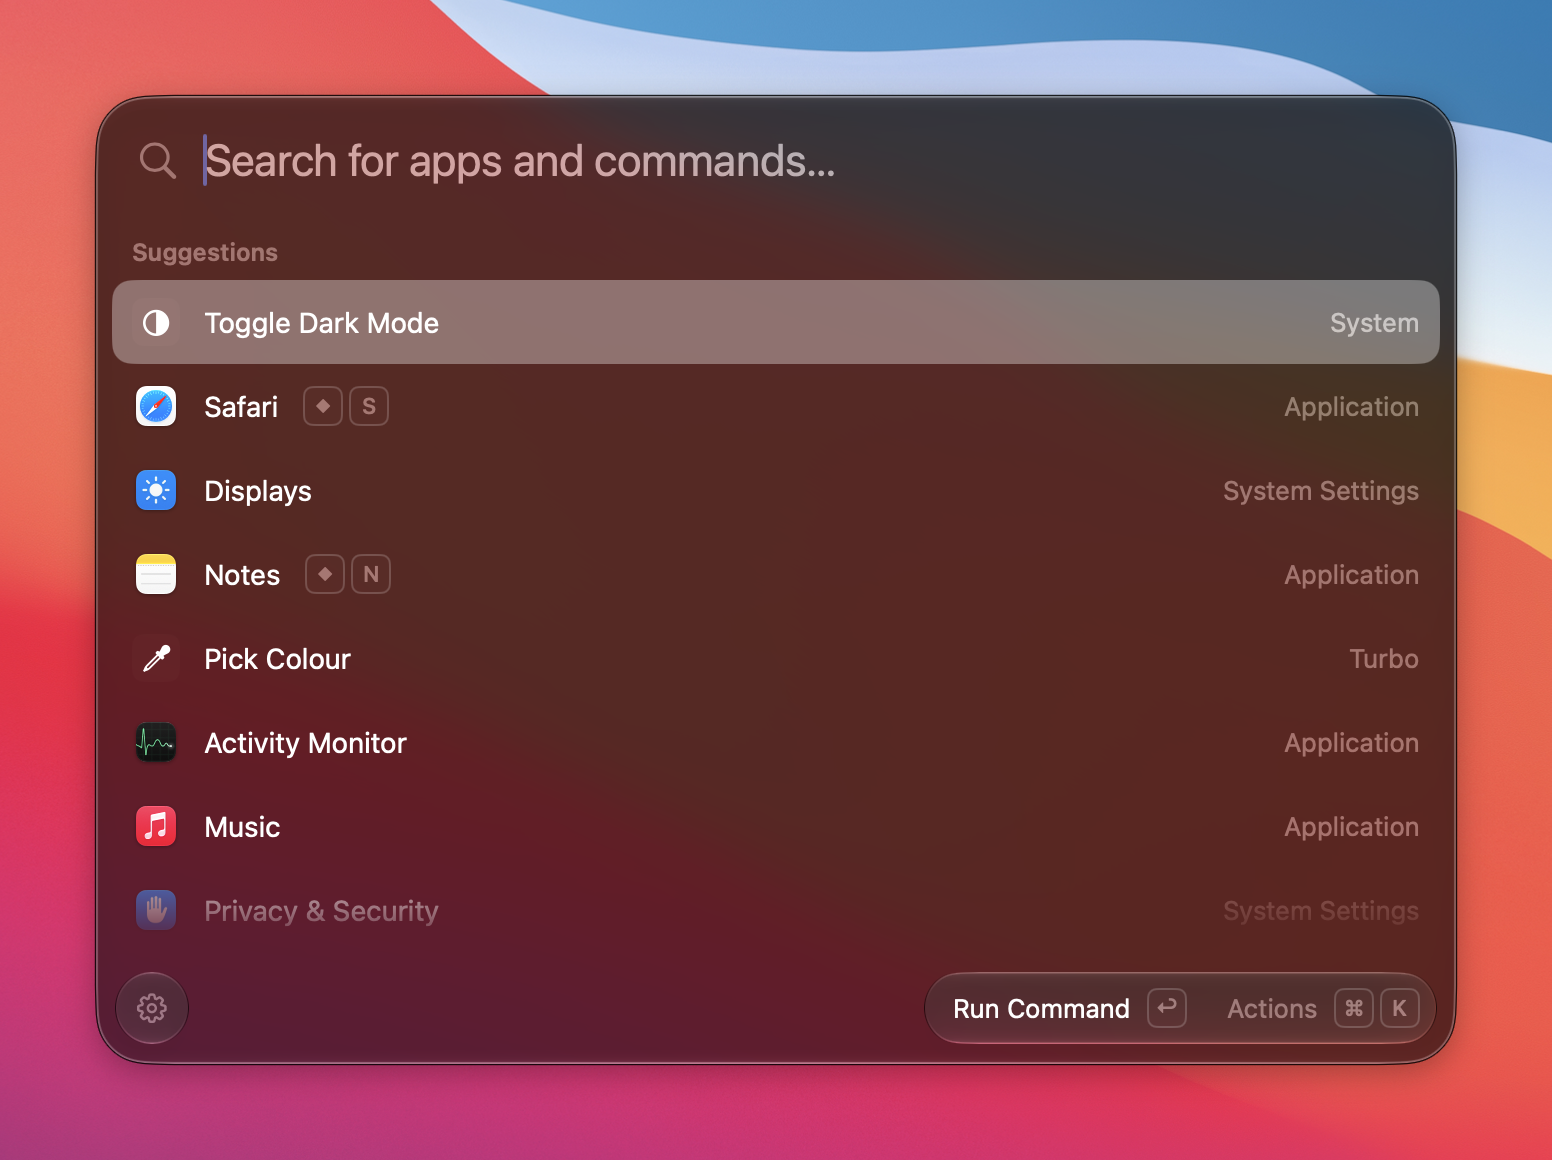
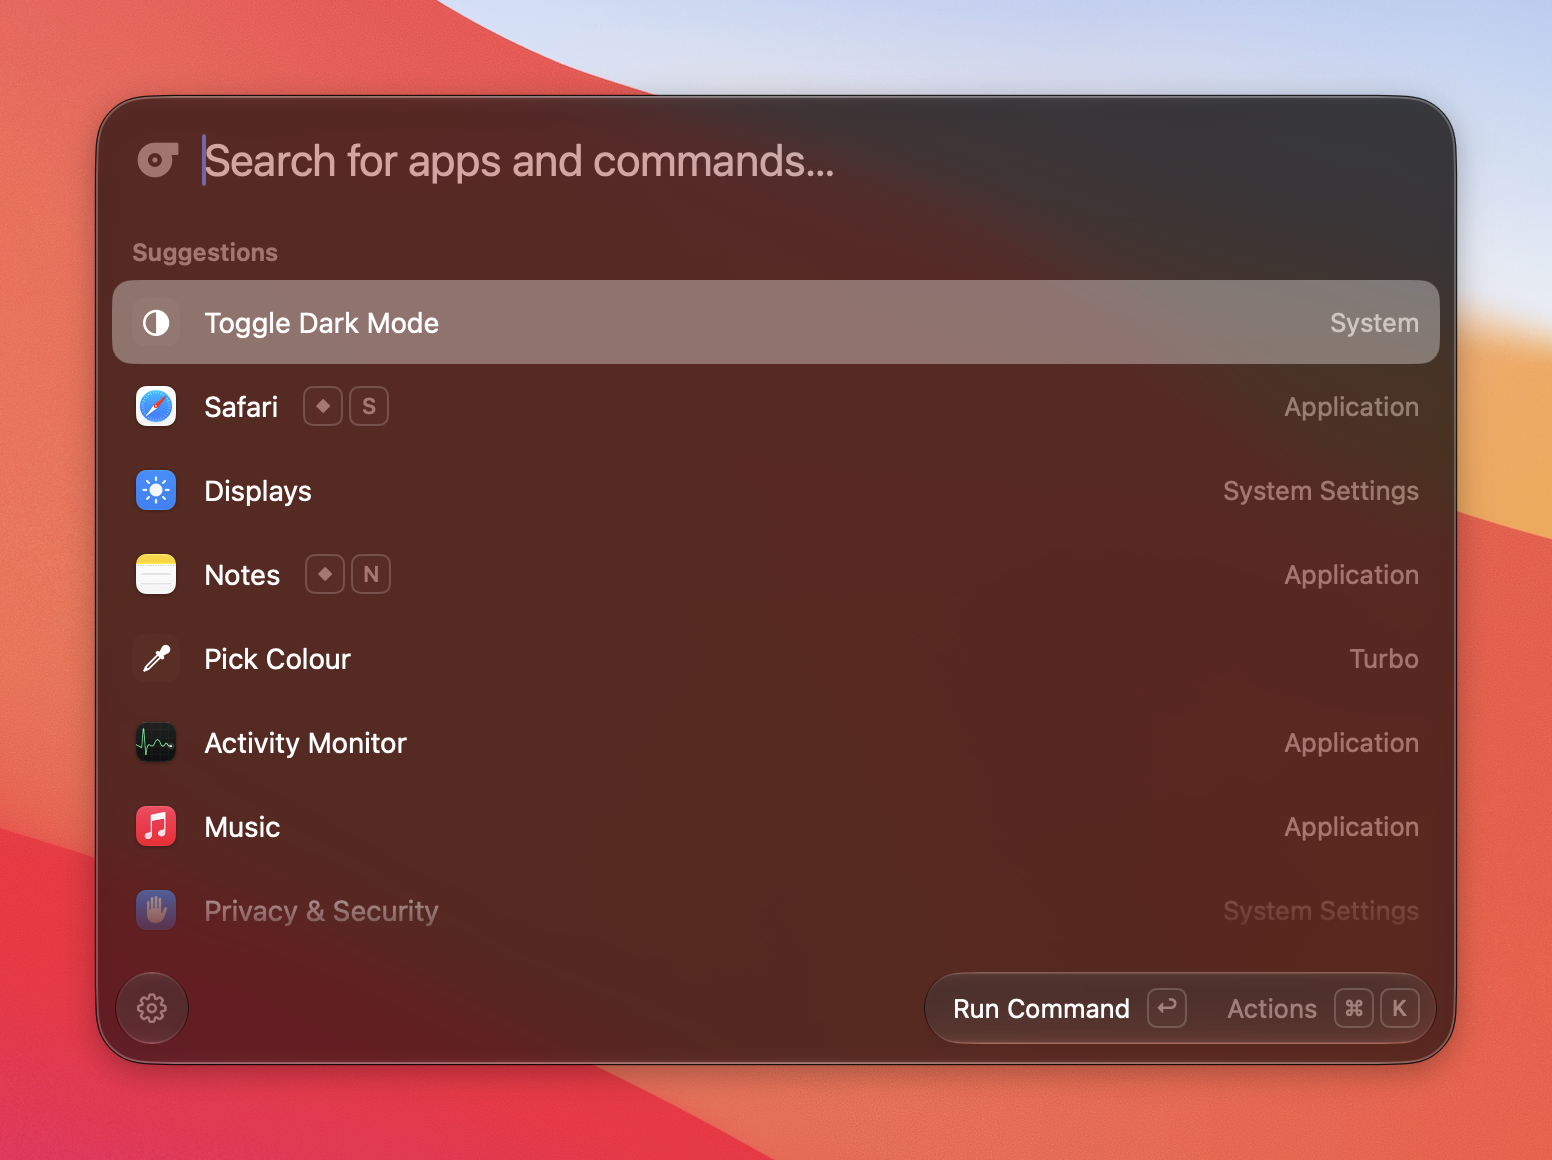
docs: add the menu bar popover to the README screenshots
`just screenshots` now also captures menubar.png: the open menu bar popover over the
desktop, with only Turbo's icon in the menu bar. It's composed with ScreenCaptureKit from
the wallpaper and Turbo's windows, plus Turbo's highlighted icon cut from an ordinary
capture. The README shows it beside the launcher.

The demo config turns on reverse scrolling, and screenshot mode shows every display at full
brightness (without changing it) and hides the Accessibility prompt row in the popover.

diff --git a/shell/Sources/Turbo/ScreenshotMode.swift b/shell/Sources/Turbo/ScreenshotMode.swift
@@ -1,8 +1,11 @@
 import AppKit
 import os
+import ScreenCaptureKit
+import UniformTypeIdentifiers
 
 /// `just screenshots`: launched with `TURBO_SCREENSHOTS=<dir>`, the app hides every other app,
-/// captures the launcher palette over the desktop to `<dir>/palette.png`, then opens Settings and
+/// captures the launcher palette over the desktop to `<dir>/palette.png` and the open menu bar
+/// popover under Turbo's icon (alone in the menu bar) to `<dir>/menubar.png`, then opens Settings and
 /// saves each pane's window to `<dir>/<pane>.png` with `screencapture` (frame and shadow
 /// included), unhides the apps it hid and quits. Capturing needs Screen Recording access.
 @MainActor
@@ -31,14 +34,10 @@ enum ScreenshotMode {
         palette.show()
         try? await Task.sleep(for: .seconds(1))
         let region = palette.panelFrame.insetBy(dx: -palettePadding, dy: -palettePadding)
-        // screencapture -R takes points from the top-left of the main display; AppKit's origin is
-        // its bottom-left.
-        let mainHeight = NSScreen.screens.first?.frame.maxY ?? 0
-        let rect = [region.minX, mainHeight - region.maxY, region.width, region.height]
-            .map { String(Int($0.rounded())) }
-            .joined(separator: ",")
-        screencapture(["-R", rect], name: "palette", in: directory)
+        screencapture(region: region, name: "palette", in: directory)
         palette.hide()
+
+        await captureMenuBar(in: directory)
 
         // General is left out: the palette shot replaces it at the top of the README.
         for pane in SettingsPane.allCases where pane != .general {
@@ -51,6 +50,172 @@ enum ScreenshotMode {
         // Before quitting: terminate doesn't return.
         hidden.forEach { $0.unhide() }
         NSApp.terminate(nil)
+    }
+
+    /// Opens the menu bar popover and saves `menubar.png` (see `composeMenuBar`).
+    private static func captureMenuBar(in directory: URL) async {
+        // The status item can take a moment to reach the menu bar after launch.
+        var button = statusItemButton()
+        for _ in 0..<30 where button == nil {
+            try? await Task.sleep(for: .milliseconds(100))
+            button = statusItemButton()
+        }
+        guard let button else {
+            let windows = NSApp.windows.filter { $0.className.contains("StatusBarWindow") }
+                .map { NSStringFromRect($0.frame) }.joined(separator: ", ")
+            Logger.app.error("screenshots: couldn't find the menu bar icon (status windows: \(windows, privacy: .public))")
+            return
+        }
+        // SwiftUI's status item ignores performClick, so it gets a real click; another if it didn't
+        // take (the icon can still be settling into place).
+        var opened: (popover: NSWindow, icon: NSRect)?
+        for _ in 0..<3 where opened == nil {
+            guard let icon = button.window?.frame else { break }
+            click(at: icon)
+            for _ in 0..<10 {
+                try? await Task.sleep(for: .milliseconds(100))
+                if let popover = NSApp.windows.first(where: { $0.isVisible && $0.className.contains("MenuBarExtra") }) {
+                    opened = (popover, icon)
+                    break
+                }
+            }
+        }
+        guard let (popover, icon) = opened else {
+            let windows = NSApp.windows.filter(\.isVisible).map(\.className).joined(separator: ", ")
+            Logger.app.error("screenshots: the menu bar popover didn't open (visible windows: \(windows, privacy: .public))")
+            return
+        }
+        // Off to the side, so it doesn't highlight a control in the popover; then time for it to settle.
+        if let screen = NSScreen.screens.first {
+            CGWarpMouseCursorPosition(CGPoint(x: screen.frame.width * 0.1, y: screen.frame.height * 0.5))
+        }
+        try? await Task.sleep(for: .seconds(1))
+        do {
+            try await composeMenuBar(popover: popover.frame, icon: icon, to: directory.appending(path: "menubar.png"))
+            Logger.app.info("screenshots: saved menubar")
+        } catch {
+            Logger.app.error("screenshots: menubar failed: \(error, privacy: .public)")
+        }
+        popover.orderOut(nil)
+        try? await Task.sleep(for: .milliseconds(500))
+    }
+
+    /// Draws the menu bar shot with only Turbo's icon in the menu bar, whatever else is there: the
+    /// wallpaper and the popover, captured without the menu bar, then Turbo's icon (with its open
+    /// highlight) cut from an ordinary capture where it is. The popover sits in the middle.
+    private static func composeMenuBar(popover: NSRect, icon: NSRect, to file: URL) async throws {
+        guard let screen = NSScreen.screens.first,
+              let displayID = screen.deviceDescription[NSDeviceDescriptionKey("NSScreenNumber")] as? CGDirectDisplayID
+        else { throw ScreenshotError("no main display") }
+        let scale = screen.backingScaleFactor
+        let content = try await SCShareableContent.excludingDesktopWindows(false, onScreenWindowsOnly: true)
+        guard let display = content.displays.first(where: { $0.displayID == displayID }) else {
+            throw ScreenshotError("ScreenCaptureKit doesn't list the main display")
+        }
+        // The background keeps the wallpaper (WindowManager's), the shading macOS puts behind the
+        // menu bar ("underbelly") and Turbo's own windows, leaving out the menu bar and its icons.
+        let me = ProcessInfo.processInfo.processIdentifier
+        let onMain = { (window: SCWindow) in window.frame.minX == 0 && window.frame.minY == 0 }
+        let backgroundWindows = content.windows.filter {
+            ($0.owningApplication?.processID == me && $0.isOnScreen)
+                || (onMain($0) && ($0.title == "underbelly"
+                    || ($0.title == "Wallpaper" && $0.owningApplication?.bundleIdentifier == "com.apple.WindowManager")))
+        }
+
+        // In points from the main display's top left, which ScreenCaptureKit and the
+        // accessibility API use; x is the same as AppKit's.
+        let left = popover.minX - menuBarMargin
+        let right = popover.maxX + menuBarMargin
+        let height = screen.frame.maxY - popover.minY + menuBarMarginBottom
+        let region = CGRect(x: left, y: 0, width: right - left, height: height)
+
+        func capture(_ filter: SCContentFilter, _ source: CGRect) async throws -> CGImage {
+            let config = SCStreamConfiguration()
+            config.sourceRect = source
+            config.width = Int((source.width * scale).rounded())
+            config.height = Int((source.height * scale).rounded())
+            config.showsCursor = false
+            config.captureResolution = .best
+            return try await SCScreenshotManager.captureImage(contentFilter: filter, configuration: config)
+        }
+        let background = try await capture(SCContentFilter(display: display, including: backgroundWindows), region)
+        let everything = try await capture(SCContentFilter(display: display, excludingWindows: []), region)
+
+        let width = background.width, imageHeight = background.height
+        guard let context = CGContext(
+            data: nil, width: width, height: imageHeight, bitsPerComponent: 8, bytesPerRow: 0,
+            space: CGColorSpace(name: CGColorSpace.sRGB)!, bitmapInfo: CGImageAlphaInfo.premultipliedLast.rawValue
+        ) else { throw ScreenshotError("couldn't make a drawing context") }
+        // Top-left origin in points, like the rects above.
+        context.translateBy(x: 0, y: CGFloat(imageHeight))
+        context.scaleBy(x: scale, y: -scale)
+        /// Draws `rect` of `image` (in points from its top left) at `origin` in the region.
+        func draw(_ image: CGImage, _ rect: CGRect, at origin: CGPoint) {
+            let pixels = CGRect(x: rect.minX * scale, y: rect.minY * scale, width: rect.width * scale, height: rect.height * scale)
+            guard let piece = image.cropping(to: pixels.integral) else { return }
+            context.saveGState()
+            // CGContext draws images upright in its own (bottom-left) space; flip back for this one.
+            context.translateBy(x: origin.x, y: origin.y + rect.height)
+            context.scaleBy(x: 1, y: -1)
+            context.draw(piece, in: CGRect(origin: .zero, size: rect.size))
+            context.restoreGState()
+        }
+
+        draw(background, CGRect(origin: .zero, size: region.size), at: .zero)
+        let barHeight = screen.frame.maxY - screen.visibleFrame.maxY
+        // The open highlight is a capsule a little wider than the button; the margin either side is
+        // still within the button padding before a neighbouring icon, and matches the background.
+        let turbo = CGRect(x: icon.minX - left, y: 0, width: icon.width, height: barHeight).insetBy(dx: -6, dy: 0)
+        draw(everything, turbo, at: turbo.origin)
+
+        guard let image = context.makeImage(),
+              let destination = CGImageDestinationCreateWithURL(file as CFURL, UTType.png.identifier as CFString, 1, nil)
+        else { throw ScreenshotError("couldn't write \(file.lastPathComponent)") }
+        CGImageDestinationAddImage(destination, image, nil)
+        guard CGImageDestinationFinalize(destination) else { throw ScreenshotError("couldn't write \(file.lastPathComponent)") }
+    }
+
+    private struct ScreenshotError: Error, CustomStringConvertible {
+        let description: String
+        init(_ description: String) { self.description = description }
+    }
+
+    /// Clicks the middle of `frame`, in AppKit's coordinates (origin at the main display's bottom left).
+    private static func click(at frame: NSRect) {
+        // CGEvent takes points from the top-left of the main display.
+        let mainHeight = NSScreen.screens.first?.frame.maxY ?? 0
+        let point = CGPoint(x: frame.midX, y: mainHeight - frame.midY)
+        for type in [CGEventType.leftMouseDown, .leftMouseUp] {
+            CGEvent(mouseEventSource: nil, mouseType: type, mouseCursorPosition: point, mouseButton: .left)?
+                .post(tap: .cghidEventTap)
+        }
+    }
+
+    /// Desktop showing beside and below the menu bar popover, in points.
+    private static let menuBarMargin: CGFloat = 22
+    private static let menuBarMarginBottom: CGFloat = 27
+
+    /// The button of the status item SwiftUI's `MenuBarExtra` made in the main display's menu bar
+    /// (each display's menu bar has its own copy).
+    private static func statusItemButton() -> NSStatusBarButton? {
+        func find(in view: NSView) -> NSStatusBarButton? {
+            if let button = view as? NSStatusBarButton { return button }
+            return view.subviews.lazy.compactMap(find).first
+        }
+        let main = NSScreen.screens.first?.frame ?? .zero
+        return NSApp.windows
+            .filter { $0.className.contains("StatusBarWindow") && main.intersects($0.frame) }
+            .lazy.compactMap { $0.contentView.flatMap(find) }.first
+    }
+
+    /// Captures `region`, in AppKit's coordinates (origin at the main display's bottom left).
+    private static func screencapture(region: NSRect, name: String, in directory: URL) {
+        // screencapture -R takes points from the top-left of the main display.
+        let mainHeight = NSScreen.screens.first?.frame.maxY ?? 0
+        let rect = [region.minX, mainHeight - region.maxY, region.width, region.height]
+            .map { String(Int($0.rounded())) }
+            .joined(separator: ",")
+        screencapture(["-R", rect], name: name, in: directory)
     }
 
     /// Hides every visible regular app but this one, returning them to unhide afterwards.

diff --git a/shell/Sources/Turbo/DisplaySettings.swift b/shell/Sources/Turbo/DisplaySettings.swift
@@ -36,8 +36,8 @@ final class DisplaySettings {
     init(core: Core) {
         self.core = core
         config = core.monitorConfig()
-        displays = core.displays()
-        builtinBrightness = core.builtinBrightness()
+        displays = Self.posed(core.displays())
+        builtinBrightness = Self.posed(core.builtinBrightness())
     }
 
     /// Displays whose brightness can be controlled.
@@ -56,7 +56,7 @@ final class DisplaySettings {
     /// keys, auto-brightness, opening and closing the lid).
     func refreshBuiltin() {
         guard ContinuousClock.now - lastBuiltinWrite > .milliseconds(500) else { return }
-        builtinBrightness = core.builtinBrightness()
+        builtinBrightness = Self.posed(core.builtinBrightness())
     }
 
     func setBuiltinBrightness(_ brightness: Double) {
@@ -78,7 +78,7 @@ final class DisplaySettings {
         // menu's next poll, so the menu doesn't change height while it's open.
         refreshBuiltin()
         // Keep the slider's value for a display mid-drag rather than the core's older one.
-        self.displays = displays.map { display in
+        self.displays = Self.posed(displays).map { display in
             guard writing.contains(display.id), let current = self.displays.first(where: { $0.id == display.id }) else {
                 return display
             }
@@ -99,8 +99,25 @@ final class DisplaySettings {
 
     // MARK: Private
 
+    /// `just screenshots` shows every display at full brightness, whatever it's really at (and
+    /// without changing it).
+    private static let posing = ScreenshotMode.directory != nil
+
+    private static func posed(_ brightness: Double?) -> Double? {
+        posing ? brightness.map { _ in 1 } : brightness
+    }
+
+    private static func posed(_ displays: [DisplayInfo]) -> [DisplayInfo] {
+        guard posing else { return displays }
+        return displays.map { display in
+            var display = display
+            display.brightness = 1
+            return display
+        }
+    }
+
     private func updateLocal(_ displayID: UInt32, _ brightness: Double) {
-        guard let index = displays.firstIndex(where: { $0.id == displayID }) else { return }
+        guard !Self.posing, let index = displays.firstIndex(where: { $0.id == displayID }) else { return }
         displays[index].brightness = brightness
     }
 

diff --git a/shell/Sources/Turbo/StatusMenu.swift b/shell/Sources/Turbo/StatusMenu.swift
@@ -23,7 +23,8 @@ struct StatusMenu: View {
             Divider()
             keyboard
 
-            if !model.accessibility.isGranted {
+            // Screenshots show the menu as it is once set up.
+            if !model.accessibility.isGranted, ScreenshotMode.directory == nil {
                 MenuRow(title: "Grant Accessibility…", systemImage: "hand.raised") {
                     dismiss()
                     onShowOnboarding()

diff --git a/README.md b/README.md
@@ -16,7 +16,7 @@
 
 [**Download for Mac**](https://github.com/jamieweavis/turbo/releases/latest) · [Features](#launcher-features) · [Utilities](#utilities) · [Development](#development) · [Changelog](CHANGELOG.md)
 
-<img src=".github/screenshots/palette.png" alt="Turbo's launcher" width="776">
+<img src=".github/screenshots/palette.png" alt="Turbo's launcher" height="392"> <img src=".github/screenshots/menubar.png" alt="Turbo's menu bar popover" height="392">
 
 </div>
 
@@ -240,8 +240,9 @@ default, so macOS keeps the Accessibility grant across rebuilds. Set `TURBO_SIGN
 ad hoc.
 
 `just screenshots` relaunches the app with the demo config in `.github/screenshots/demo-config.toml`,
-hides your other apps, captures the launcher over the desktop and every settings pane in dark mode to
-`.github/screenshots/`, then unhides the apps and relaunches your usual copy.
+hides your other apps, captures the launcher over the desktop, the menu bar popover (under
+Turbo's icon alone) and every settings pane in dark mode to `.github/screenshots/`, then
+unhides the apps and relaunches your usual copy.
 It needs Screen Recording access the first time, and compresses the images if `oxipng` is installed.
 
 ### Project layout
